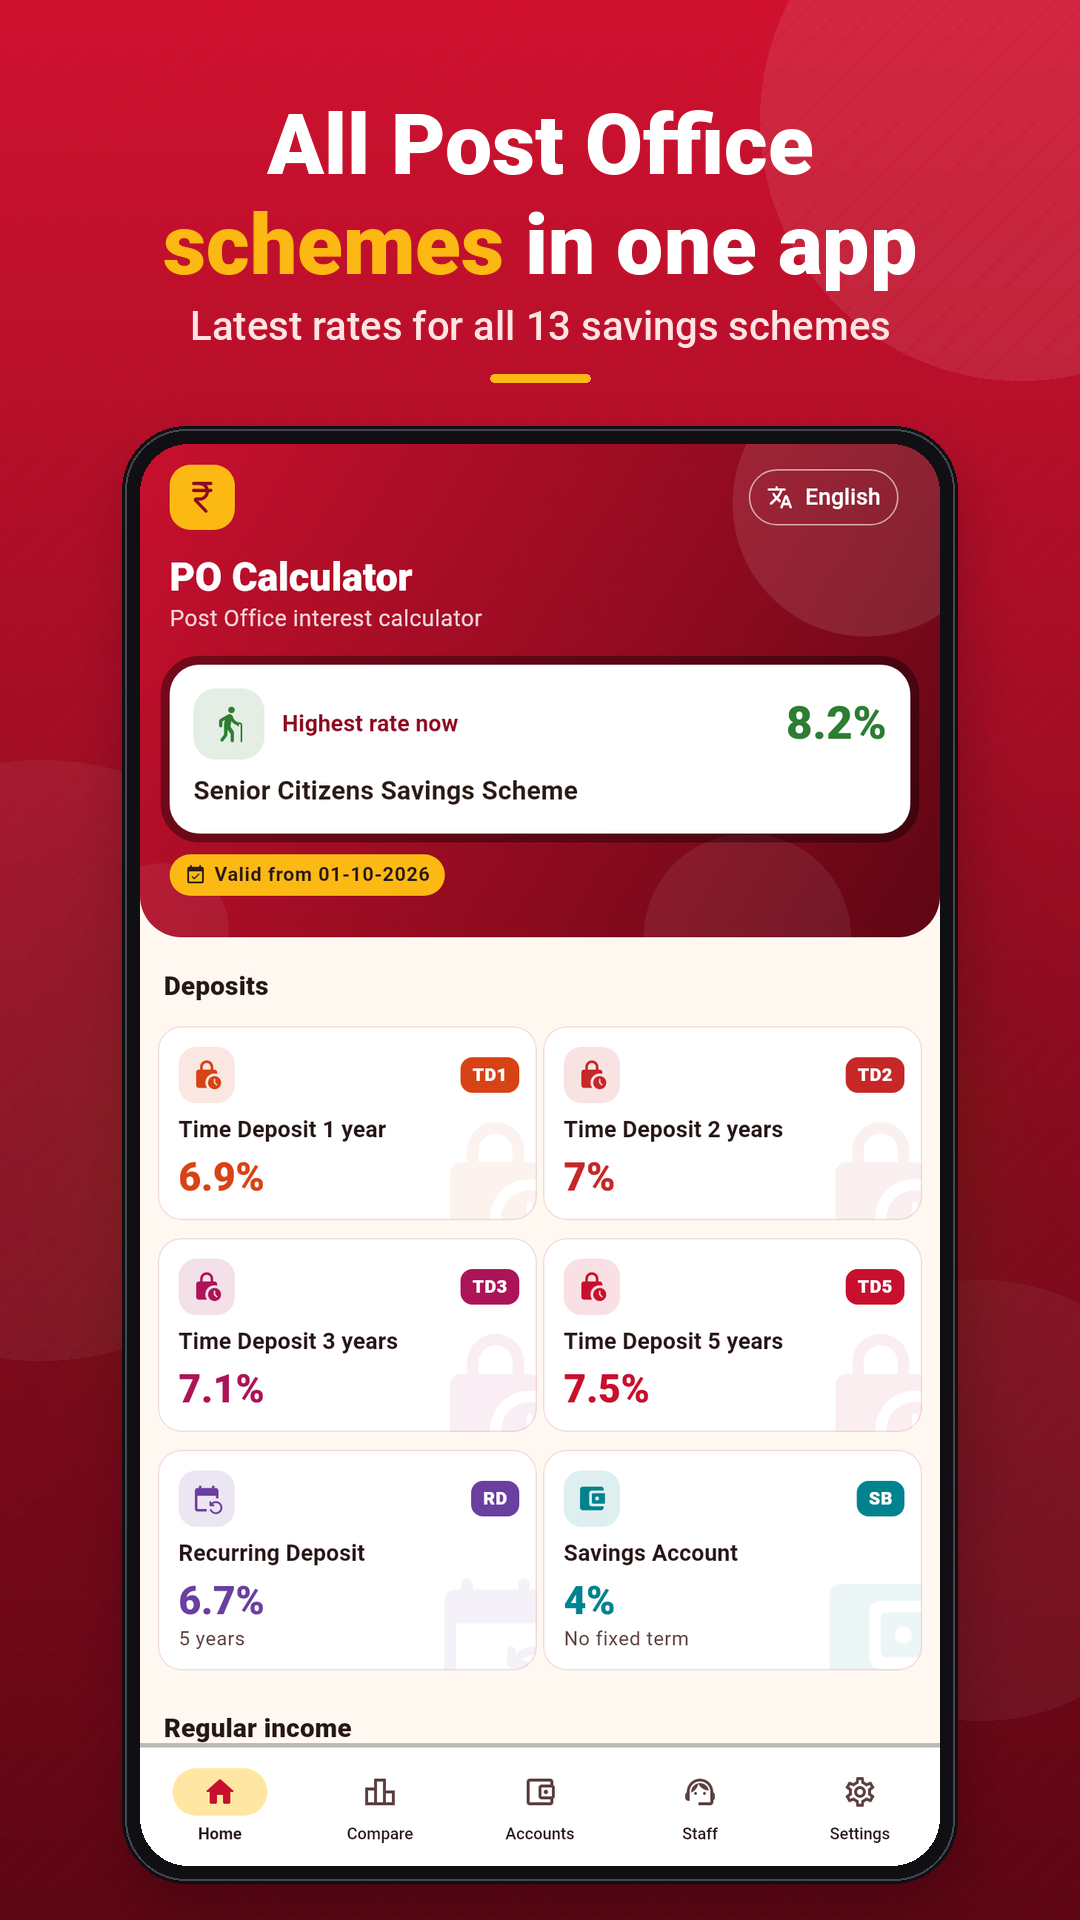
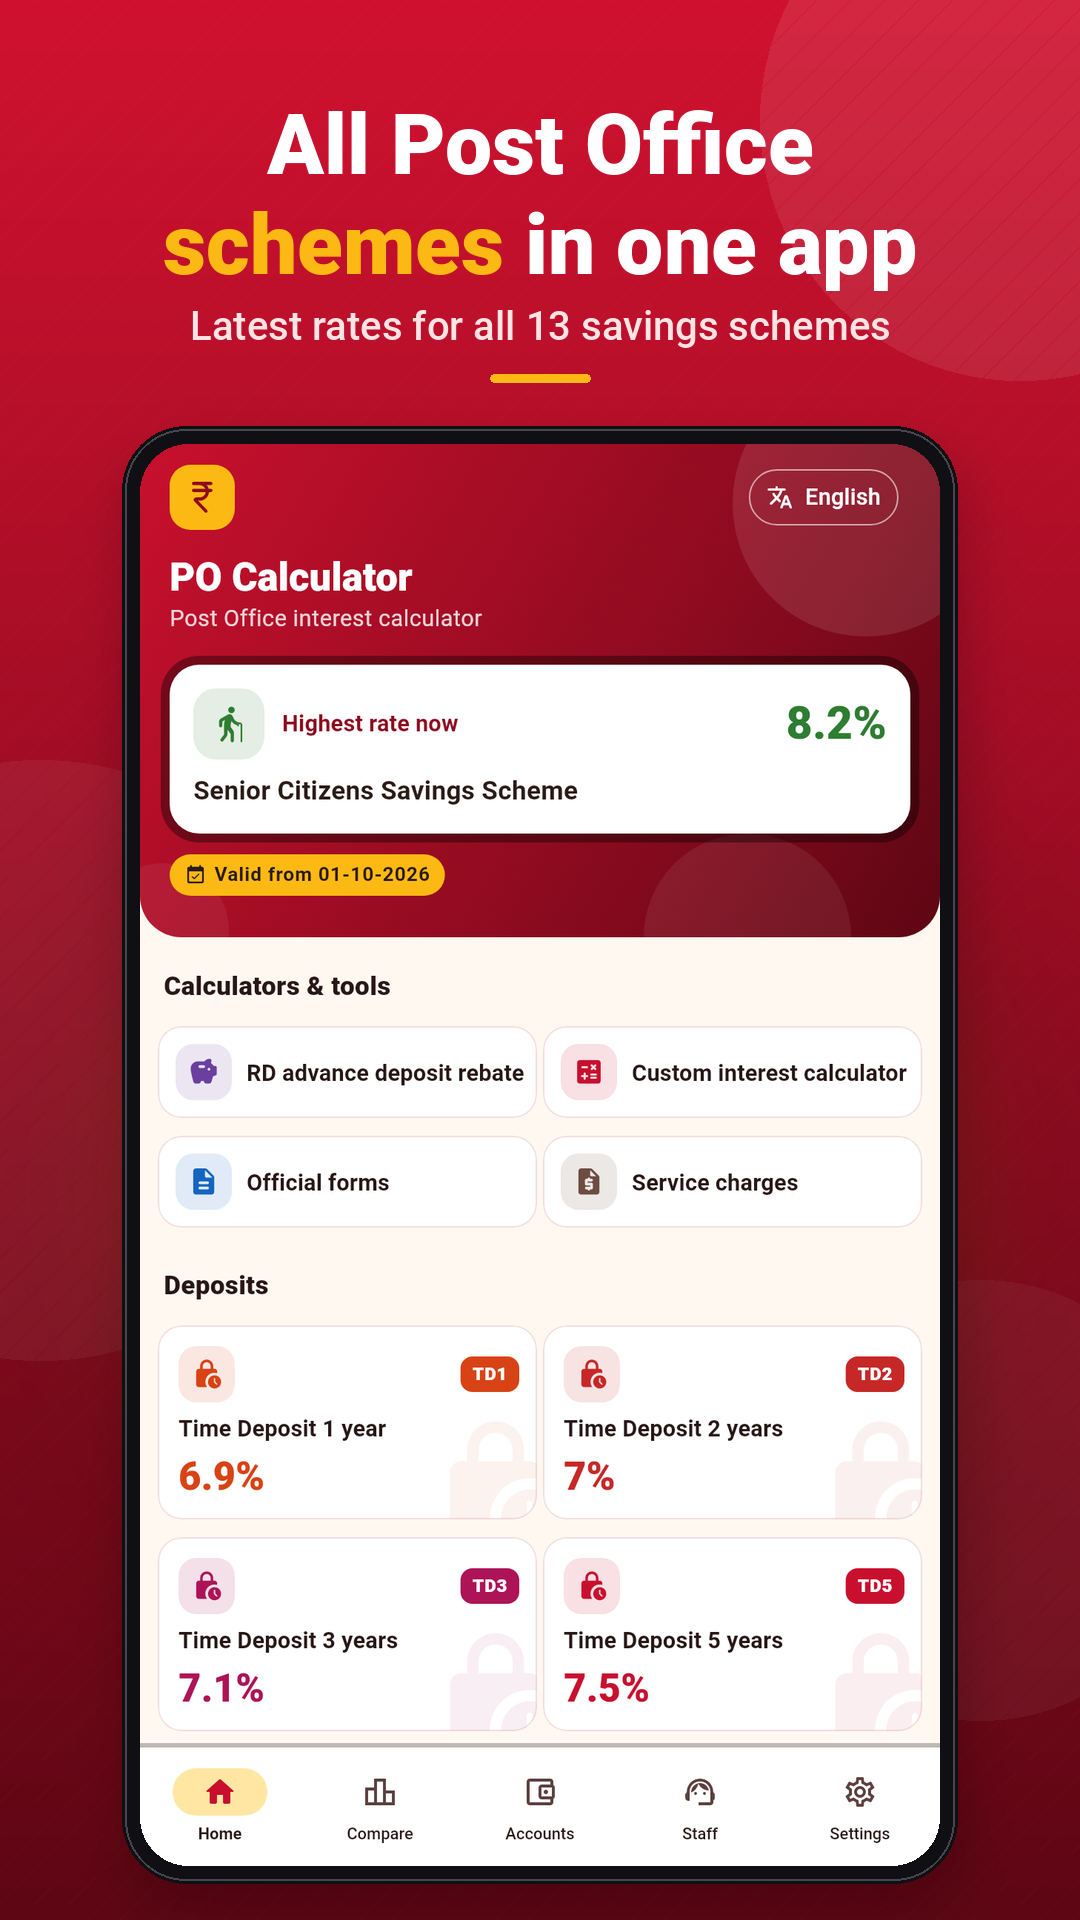
PO Calculator 1.7.4: tools on Home; working forms page
- Home: "Calculators & tools" (RD rebate, custom interest, official
  forms, service charges), each opening its own page.
- app.indiapost.gov.in returns server errors, so SB-7, SB-83, SB-EXT1 and
  "All forms" open the national portal's Department of Posts forms page
  (india.gov.in), and the India Post source link is www.indiapost.gov.in.
- Store screenshots re-rendered.

Claude-Session: https://claude.ai/code/session_012VZRKny5dAwRHgm86XLQ6S

diff --git a/lib/app/strings.dart b/lib/app/strings.dart
@@ -5,6 +5,7 @@ library;
 import '../domain/engine/closure.dart';
 import '../domain/engine/custom_interest.dart';
 import '../domain/models/account_filter.dart';
+import '../domain/models/tool.dart';
 import '../domain/engine/eligibility.dart';
 import '../domain/models/scheme.dart';
 import '../domain/models/service_fee.dart';
@@ -103,6 +104,25 @@ class S {
     or: 'ଉତ୍ସ: ଇଣ୍ଡିଆ ପୋଷ୍ଟ (indiapost.gov.in)',
     pa: 'ਸਰੋਤ: ਇੰਡੀਆ ਪੋਸਟ (indiapost.gov.in)',
   );
+  String get toolsTitle => _t(
+    'Calculators & tools',
+    'ಕ್ಯಾಲ್ಕುಲೇಟರ್ಗಳು ಮತ್ತು ಸಾಧನಗಳು',
+    hi: 'कैलकुलेटर और टूल्स',
+    bn: 'ক্যালকুলেটর ও টুলস',
+    mr: 'कॅल्क्युलेटर आणि साधने',
+    te: 'కాలిక్యులేటర్లు & సాధనాలు',
+    ta: 'கால்குலேட்டர்கள் & கருவிகள்',
+    gu: 'કેલ્ક્યુલેટર અને સાધનો',
+    ml: 'കാൽക്കുലേറ്ററുകളും ടൂളുകളും',
+    or: 'କ୍ୟାଲକୁଲେଟର ଓ ସାଧନ',
+    pa: 'ਕੈਲਕੁਲੇਟਰ ਅਤੇ ਟੂਲ',
+  );
+  String toolName(Tool t) => switch (t) {
+    Tool.rdRebate => rdRebate,
+    Tool.customInterest => customCalc,
+    Tool.forms => officialForms,
+    Tool.serviceCharges => serviceCharges,
+  };
   String get officialSources => _t(
     'Official sources',
     'ಅಧಿಕೃತ ಮೂಲಗಳು',
@@ -3096,17 +3116,17 @@ class S {
     pa: 'ਮਿਆਦ ਪੂਰੀ ਹੋਣ ’ਤੇ ਬੰਦ ਕਰਨਾ (ਸਰਕਾਰੀ ਫਾਰਮ 9)',
   );
   String get onFormsPage => _t(
-    'Opens the India Post forms page: pick this form there',
-    'ಭಾರತೀಯ ಅಂಚೆ ಅರ್ಜಿಗಳ ಪುಟ ತೆರೆಯುತ್ತದೆ: ಅಲ್ಲಿ ಈ ಅರ್ಜಿ ಆಯ್ಕೆಮಾಡಿ',
-    hi: 'इंडिया पोस्ट फॉर्म पेज खुलता है: वहाँ यह फॉर्म चुनें',
-    bn: 'ইন্ডিয়া পোস্টের ফর্ম পেজ খোলে: সেখানে এই ফর্মটি বেছে নিন',
-    mr: 'इंडिया पोस्ट फॉर्म पेज उघडते: तिथे हा फॉर्म निवडा',
-    te: 'ఇండియా పోస్ట్ ఫారాల పేజీ తెరుచుకుంటుంది: అక్కడ ఈ ఫారం ఎంచుకోండి',
-    ta: 'இந்தியா போஸ்ட் படிவப் பக்கம் திறக்கும்: அங்கே இந்தப் படிவத்தைத் தேர்ந்தெடுக்கவும்',
-    gu: 'ઇન્ડિયા પોસ્ટનું ફોર્મ પેજ ખુલે છે: ત્યાં આ ફોર્મ પસંદ કરો',
-    ml: 'ഇന്ത്യ പോസ്റ്റ് ഫോം പേജ് തുറക്കും: അവിടെ ഈ ഫോം തിരഞ്ഞെടുക്കുക',
-    or: 'ଇଣ୍ଡିଆ ପୋଷ୍ଟ ଫର୍ମ ପୃଷ୍ଠା ଖୋଲେ: ସେଠାରେ ଏହି ଫର୍ମ ବାଛନ୍ତୁ',
-    pa: 'ਇੰਡੀਆ ਪੋਸਟ ਫਾਰਮ ਪੰਨਾ ਖੁੱਲ੍ਹਦਾ ਹੈ: ਉੱਥੇ ਇਹ ਫਾਰਮ ਚੁਣੋ',
+    'Opens the Government forms page (india.gov.in): pick this form there',
+    'ಸರ್ಕಾರಿ ಅರ್ಜಿಗಳ ಪುಟ (india.gov.in) ತೆರೆಯುತ್ತದೆ: ಅಲ್ಲಿ ಈ ಅರ್ಜಿ ಆಯ್ಕೆಮಾಡಿ',
+    hi: 'सरकारी फॉर्म पेज (india.gov.in) खुलता है: वहाँ यह फॉर्म चुनें',
+    bn: 'সরকারি ফর্ম পেজ (india.gov.in) খোলে: সেখানে এই ফর্মটি বেছে নিন',
+    mr: 'सरकारी फॉर्म पेज (india.gov.in) उघडते: तिथे हा फॉर्म निवडा',
+    te: 'ప్రభుత్వ ఫారాల పేజీ (india.gov.in) తెరుచుకుంటుంది: అక్కడ ఈ ఫారం ఎంచుకోండి',
+    ta: 'அரசு படிவப் பக்கம் (india.gov.in) திறக்கும்: அங்கே இந்தப் படிவத்தைத் தேர்ந்தெடுக்கவும்',
+    gu: 'સરકારી ફોર્મ પેજ (india.gov.in) ખુલે છે: ત્યાં આ ફોર્મ પસંદ કરો',
+    ml: 'സർക്കാർ ഫോം പേജ് (india.gov.in) തുറക്കും: അവിടെ ഈ ഫോം തിരഞ്ഞെടുക്കുക',
+    or: 'ସରକାରୀ ଫର୍ମ ପୃଷ୍ଠା (india.gov.in) ଖୋଲେ: ସେଠାରେ ଏହି ଫର୍ମ ବାଛନ୍ତୁ',
+    pa: 'ਸਰਕਾਰੀ ਫਾਰਮ ਪੰਨਾ (india.gov.in) ਖੁੱਲ੍ਹਦਾ ਹੈ: ਉੱਥੇ ਇਹ ਫਾਰਮ ਚੁਣੋ',
   );
   String get formsServices => _t(
     'Account services',

diff --git a/lib/features/home/tools.dart b/lib/features/home/tools.dart
@@ -1,0 +1,91 @@
+import 'package:flutter/material.dart';
+
+import '../../app/scope.dart';
+import '../../app/theme.dart';
+import '../../domain/models/scheme.dart';
+import '../../domain/models/tool.dart';
+import '../../widgets/common.dart';
+import '../staff/custom_interest_card.dart';
+import '../staff/official_forms.dart';
+import '../staff/rd_rebate_card.dart';
+import '../staff/service_charges.dart';
+
+extension ToolX on Tool {
+  IconData get icon => switch (this) {
+    Tool.rdRebate => Icons.savings_rounded,
+    Tool.customInterest => Icons.calculate_rounded,
+    Tool.forms => Icons.description_rounded,
+    Tool.serviceCharges => Icons.request_quote_rounded,
+  };
+
+  Color get color => switch (this) {
+    Tool.rdRebate => Scheme.rd.color,
+    Tool.customInterest => Brand.red,
+    Tool.forms => const Color(0xFF1565C0),
+    Tool.serviceCharges => const Color(0xFF6D4C41),
+  };
+}
+
+void openTool(BuildContext context, Tool tool) =>
+    Navigator.of(context)
+        .push(MaterialPageRoute<void>(builder: (_) => ToolScreen(tool: tool)));
+
+class ToolScreen extends StatelessWidget {
+  const ToolScreen({super.key, required this.tool});
+  final Tool tool;
+
+  @override
+  Widget build(BuildContext context) {
+    final s = context.s, c = tool.color;
+    return Scaffold(
+      appBar: AppBar(title: Text(s.toolName(tool))),
+      body: ListView(
+        padding: const EdgeInsets.fromLTRB(16, 8, 16, 24),
+        children: [
+          switch (tool) {
+            Tool.rdRebate => RdRebateCard(color: c),
+            Tool.customInterest => CustomInterestCard(color: c),
+            Tool.forms => OfficialForms(color: c),
+            Tool.serviceCharges => ServiceCharges(color: c),
+          },
+          Note(s.estimateOnly),
+        ],
+      ),
+    );
+  }
+}
+
+/// A compact tile for one tool on the Home screen.
+class ToolTile extends StatelessWidget {
+  const ToolTile({super.key, required this.tool});
+  final Tool tool;
+
+  @override
+  Widget build(BuildContext context) {
+    final s = context.s, t = Theme.of(context).textTheme;
+    return Card(
+      clipBehavior: Clip.antiAlias,
+      child: InkWell(
+        onTap: () => openTool(context, tool),
+        child: Padding(
+          padding: const EdgeInsets.fromLTRB(12, 12, 8, 12),
+          child: Row(
+            children: [
+              IconBadge(tool.icon, tool.color, size: 38),
+              const SizedBox(width: 10),
+              Expanded(
+                child: Text(
+                  s.toolName(tool),
+                  style: t.titleSmall?.copyWith(
+                    fontWeight: FontWeight.w600,
+                    height: 1.2,
+                  ),
+                ),
+              ),
+            ],
+          ),
+        ),
+      ),
+    );
+  }
+}

diff --git a/lib/features/staff/official_forms.dart b/lib/features/staff/official_forms.dart
@@ -12,7 +12,7 @@ import '../../widgets/common.dart';
 const kFormLinks = (
   aof: 'https://www.indiapost.gov.in/api/documents/file/103o1nb2vy390fz153juo737nye34dwb0s5c13mn9n34umv02teh3g2ty34feo',
   kyc: 'https://www.indiapost.gov.in/api/documents/file/kyc-form-annexure-ii-20250816-3c618a',
-  sb7: 'https://app.indiapost.gov.in/enterpriseportal/banking/post-saving-schemes',
+  sb7: 'https://www.india.gov.in/forms-department-posts',
   sb7b: 'https://www.indiapost.gov.in/api/documents/file/application-form-for-pre-mature-closure-of-account-20250816-94647b',
   sb7c: 'https://www.indiapost.gov.in/api/documents/file/1002tsi0ocui0e42h3e7lt04p3a063gh0sjra3ivyj3bwi204nwv0e1xv02tlj',
   maturity:
@@ -20,8 +20,8 @@ const kFormLinks = (
   dupPassbook: 'https://www.indiapost.gov.in/api/documents/file/1034vgz2oxl701hcp3cu870hc7a03a4g0s5cb3fmtn3e8eo04nkp0e32834uon',
   nomination:
       'https://www.nsiindia.gov.in/writereaddata/FileUploads/FORM%2010.pdf',
-  sbToRd: 'https://app.indiapost.gov.in/enterpriseportal/banking/post-saving-schemes',
-  extension: 'https://app.indiapost.gov.in/enterpriseportal/banking/post-saving-schemes',
+  sbToRd: 'https://www.india.gov.in/forms-department-posts',
+  extension: 'https://www.india.gov.in/forms-department-posts',
   chequeBook: 'https://www.indiapost.gov.in/api/documents/file/application-for-fresh-cheque-book-20250816-dde18d',
   claim: 'https://www.nsiindia.gov.in/writereaddata/FileUploads/FORM%2011.pdf',
   affidavit:
@@ -30,13 +30,14 @@ const kFormLinks = (
       'https://www.nsiindia.gov.in/writereaddata/FileUploads/FORM%2014.pdf',
   indemnity:
       'https://www.nsiindia.gov.in/writereaddata/FileUploads/FORM%2015.pdf',
-  all: 'https://app.indiapost.gov.in/enterpriseportal/banking/post-saving-schemes',
+  all: 'https://www.india.gov.in/forms-department-posts',
   nsi: 'https://www.nsiindia.gov.in/InternalPage.aspx?Id_Pk=38',
   handbooks: 'https://www.indiapost.gov.in/banking-services/handbooks',
   // Replaces Form 15G/15H from 1 April 2026 (Income-tax Act, 2025).
   form121: 'https://www.incometaxindia.gov.in/w/form-no.-121',
   // SB-7, SB-83 and SB-EXT1 have no permanent file address on India Post
-  // (the site hands out expiring links), so they open the forms page (all).
+  // (the site hands out expiring links), so they open the national portal's
+  // Department of Posts forms page (all); app.indiapost.gov.in is unreliable.
 );
 
 /// Opens [url] in the browser; if that fails, copies it.

diff --git a/test/widget_test.dart b/test/widget_test.dart
@@ -42,13 +42,13 @@ Future<void> pumpApp(WidgetTester tester, {String lang = 'en'}) async {
 void main() {
   testWidgets('home shows scheme tiles and switches language', (tester) async {
     await pumpApp(tester);
-    expect(find.text('Deposits'), findsOneWidget);
+    expect(find.text('Deposits', skipOffstage: false), findsOneWidget);
     expect(find.text('Highest rate now'), findsOneWidget);
     await tester.tap(find.text('English').first);
     await tester.pumpAndSettle();
     await tester.tap(find.text('ಕನ್ನಡ'));
     await tester.pumpAndSettle();
-    expect(find.text('ಠೇವಣಿಗಳು'), findsOneWidget);
+    expect(find.text('ಠೇವಣಿಗಳು', skipOffstage: false), findsOneWidget);
     await tester.scrollUntilVisible(
       find.text('TD5'),
       200,
@@ -753,13 +753,24 @@ void main() {
       scrollable: list,
     );
     expect(find.textContaining('It is not a government app'), findsWidgets);
-    expect(
-      find.text('www.nsiindia.gov.in', skipOffstage: false),
-      findsWidgets,
-    );
+    expect(find.text('www.nsiindia.gov.in', skipOffstage: false), findsWidgets);
     await tester.tap(find.text('Settings').last);
     await tester.pumpAndSettle();
     expect(find.text('Official sources', skipOffstage: false), findsWidgets);
+    expect(tester.takeException(), isNull);
+  });
+
+  testWidgets('home shows calculators and tools that open', (tester) async {
+    await pumpApp(tester);
+    expect(find.text('Calculators & tools'), findsOneWidget);
+    await tester.tap(find.text('RD advance deposit rebate').first);
+    await tester.pumpAndSettle();
+    expect(find.text('Pay now'), findsOneWidget);
+    await tester.pageBack();
+    await tester.pumpAndSettle();
+    await tester.tap(find.text('Custom interest calculator').first);
+    await tester.pumpAndSettle();
+    expect(find.text('Total amount'), findsOneWidget);
     expect(tester.takeException(), isNull);
   });
 }

diff --git a/lib/features/home/home_screen.dart b/lib/features/home/home_screen.dart
@@ -7,6 +7,8 @@ import '../../domain/models/scheme.dart';
 import '../../widgets/common.dart';
 import '../../widgets/motion.dart';
 import '../calculator/calculator_screen.dart';
+import '../../domain/models/tool.dart';
+import 'tools.dart';
 import '../../widgets/official_sources.dart';
 
 /// Schemes grouped as on the Home screen.
@@ -42,6 +44,39 @@ class HomeScreen extends StatelessWidget {
       body: CustomScrollView(
         slivers: [
           SliverToBoxAdapter(child: _Header(top: top)),
+          SliverPadding(
+            padding: const EdgeInsets.fromLTRB(16, 20, 16, 8),
+            sliver: SliverToBoxAdapter(
+              child: Text(
+                s.toolsTitle,
+                style: Theme.of(context).textTheme.titleMedium
+                    ?.copyWith(fontWeight: FontWeight.w800),
+              ),
+            ),
+          ),
+          SliverPadding(
+            padding: const EdgeInsets.symmetric(horizontal: 12),
+            sliver: SliverList.list(
+              children: [
+                for (var i = 0; i < Tool.values.length; i += 2)
+                  IntrinsicHeight(
+                    child: Row(
+                      crossAxisAlignment: CrossAxisAlignment.stretch,
+                      children: [
+                        for (var j = i; j < i + 2; j++) ...[
+                          if (j > i) const SizedBox(width: 4),
+                          Expanded(
+                            child: j < Tool.values.length
+                                ? ToolTile(tool: Tool.values[j])
+                                : const SizedBox(),
+                          ),
+                        ],
+                      ],
+                    ),
+                  ),
+              ],
+            ),
+          ),
           for (final (title, schemes) in homeGroups(context)) ...[
             SliverPadding(
               padding: const EdgeInsets.fromLTRB(16, 20, 16, 8),

diff --git a/lib/widgets/official_sources.dart b/lib/widgets/official_sources.dart
@@ -7,7 +7,7 @@ import 'common.dart';
 /// Official government sources for the scheme rules, rates and tax facts
 /// in the app (Google Play's Misleading Claims policy asks for them).
 const kOfficialSources = (
-  indiaPost: 'https://app.indiapost.gov.in/enterpriseportal/banking/post-saving-schemes',
+  indiaPost: 'https://www.indiapost.gov.in',
   nsi: 'https://www.nsiindia.gov.in',
   rates: 'https://dea.gov.in',
   incomeTax: 'https://www.incometaxindia.gov.in',

diff --git a/lib/features/settings/settings_screen.dart b/lib/features/settings/settings_screen.dart
@@ -12,7 +12,7 @@ import '../rates/rates_screen.dart';
 import 'feedback_card.dart';
 import '../../widgets/official_sources.dart';
 
-const String kAppVersion = '1.7.3';
+const String kAppVersion = '1.7.4';
 
 /// Direct link to the newest APK.
 const String kDownloadUrl =

diff --git a/lib/domain/models/tool.dart b/lib/domain/models/tool.dart
@@ -1,0 +1,2 @@
+/// Calculators and tools reachable from Home (also on the Staff tab).
+enum Tool { rdRebate, customInterest, forms, serviceCharges }
